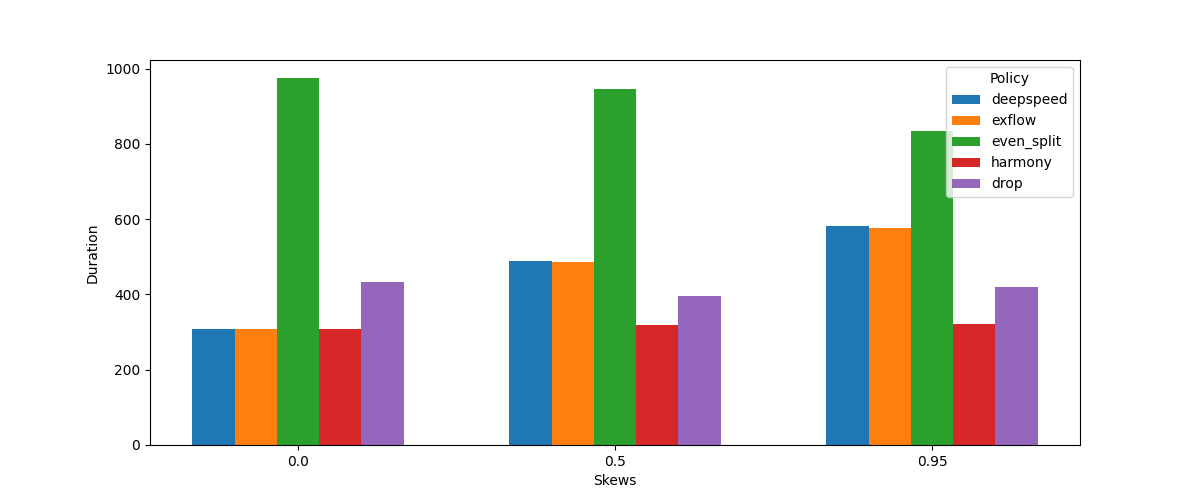
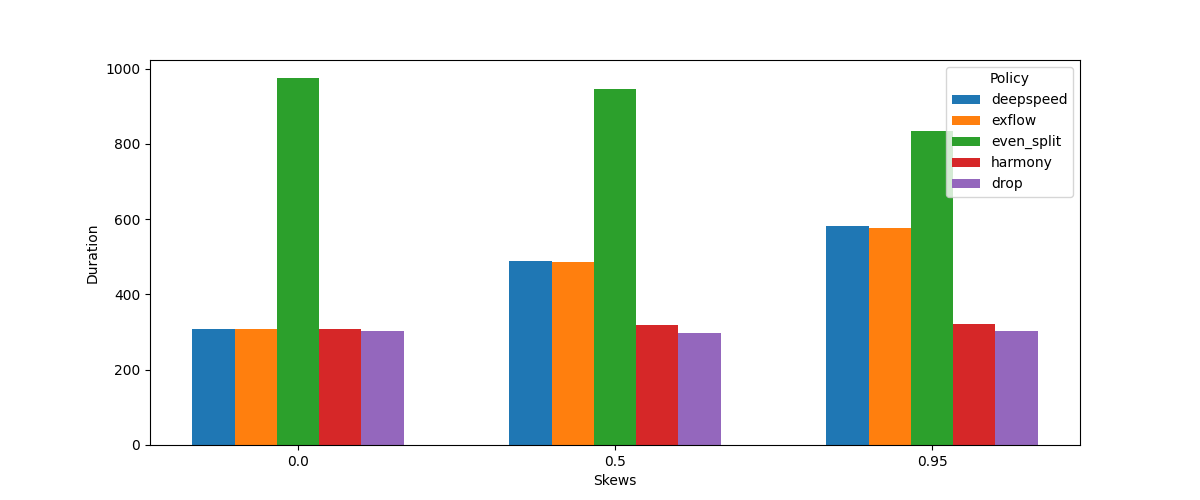
Fix drop to use vectorisation

Changed region(s): [[0.555, 0.57, 0.6167, 0.69], [0.2775, 0.54, 0.3392, 0.66], [0.8017, 0.57, 0.8633, 0.66]]

diff --git a/src/harmonymoe/scheduler.py b/src/harmonymoe/scheduler.py
@@ -182,32 +182,62 @@ class Scheduler():
         
         return expert_gpu
 
+    # def schedule_drop(self, meta):
+    #     schedule = [[[0 for _ in range(self.num_gpus)] for _ in range(self.num_experts)] for _ in range(self.num_gpus)]
+
+    #     avg = int(sum(map(lambda t: sum(t).item(), meta)) / self.num_gpus) 
+    #     gpu_amt = [0 for _ in range(self.num_gpus)]
+    #     for i in range(self.num_gpus): # source
+    #         for j in range(self.num_experts): # expert
+    #             num_tokens = meta[i][j].item()
+    #             if num_tokens == 0:
+    #                 continue # We do not have work for this one
+    #             start_idx = 0
+    #             for k in range(self.num_gpus): # dest
+    #                 if j in self.gpu_to_experts_list[k]:
+    #                     if gpu_amt[k] < avg:
+    #                         num_tokens_send = min(num_tokens, avg - gpu_amt[k])
+    #                         schedule[i][j][k] = num_tokens_send
+    #                         gpu_amt[k] += num_tokens_send
+
+    #     return torch.tensor(schedule, dtype=torch.long, device="cuda")
+
     def schedule_drop(self, meta):
-        schedule = [[[0 for _ in range(self.num_gpus)] for _ in range(self.num_experts)] for _ in range(self.num_gpus)]
+        schedule = self.schedule_fixed(meta)
 
-        avg = int(sum(map(lambda t: sum(t).item(), meta)) / self.num_gpus) 
-        gpu_amt = [0 for _ in range(self.num_gpus)]
-        for i in range(self.num_gpus): # source
-            for j in range(self.num_experts): # expert
-                num_tokens = meta[i][j].item()
-                if num_tokens == 0:
-                    continue # We do not have work for this one
-                start_idx = 0
-                for k in range(self.num_gpus): # dest
-                    if j in self.gpu_to_experts_list[k]:
-                        if gpu_amt[k] < avg:
-                            num_tokens_send = min(num_tokens, avg - gpu_amt[k])
-                            schedule[i][j][k] = num_tokens_send
-                            gpu_amt[k] += num_tokens_send
+        avg = meta.sum().item() // self.num_gpus
 
-        return torch.tensor(schedule, dtype=torch.long, device="cuda")
+        gpu_amt = torch.sum(schedule, dim=(0,1))
+
+        for i in range(self.num_gpus):
+            while gpu_amt[i] > avg:
+                # Find entry that is sending the most
+
+                over = gpu_amt[i] - avg
+
+                schedule_for_gpu = schedule[:, :, i]
+
+                max_val, max_idx = torch.max(schedule_for_gpu.view(-1), dim=0)
+                if max_val == 0:
+                    break # This shouldn't happen given while loop
+
+                idx_source = max_idx // self.num_experts
+                idx_expert = max_idx % self.num_experts
+
+                remove_amt = min(over, max_val.item())
+
+                schedule[idx_source, idx_expert, i] -= remove_amt
+                gpu_amt[i] -= remove_amt
+        
+        return schedule
+
     
     def schedule_fixed(self, meta):
         schedule = torch.zeros((self.num_gpus, self.num_experts, self.num_gpus), dtype=torch.int, device="cuda")
 
         schedule[:, torch.arange(self.num_experts, device="cuda"), self.expert_to_gpu] = meta
 
-        return schedule#.tolist() # Need it to list for exflow
+        return schedule
 
     def schedule_harmony(self, meta):
         # if self.rank == 0:
